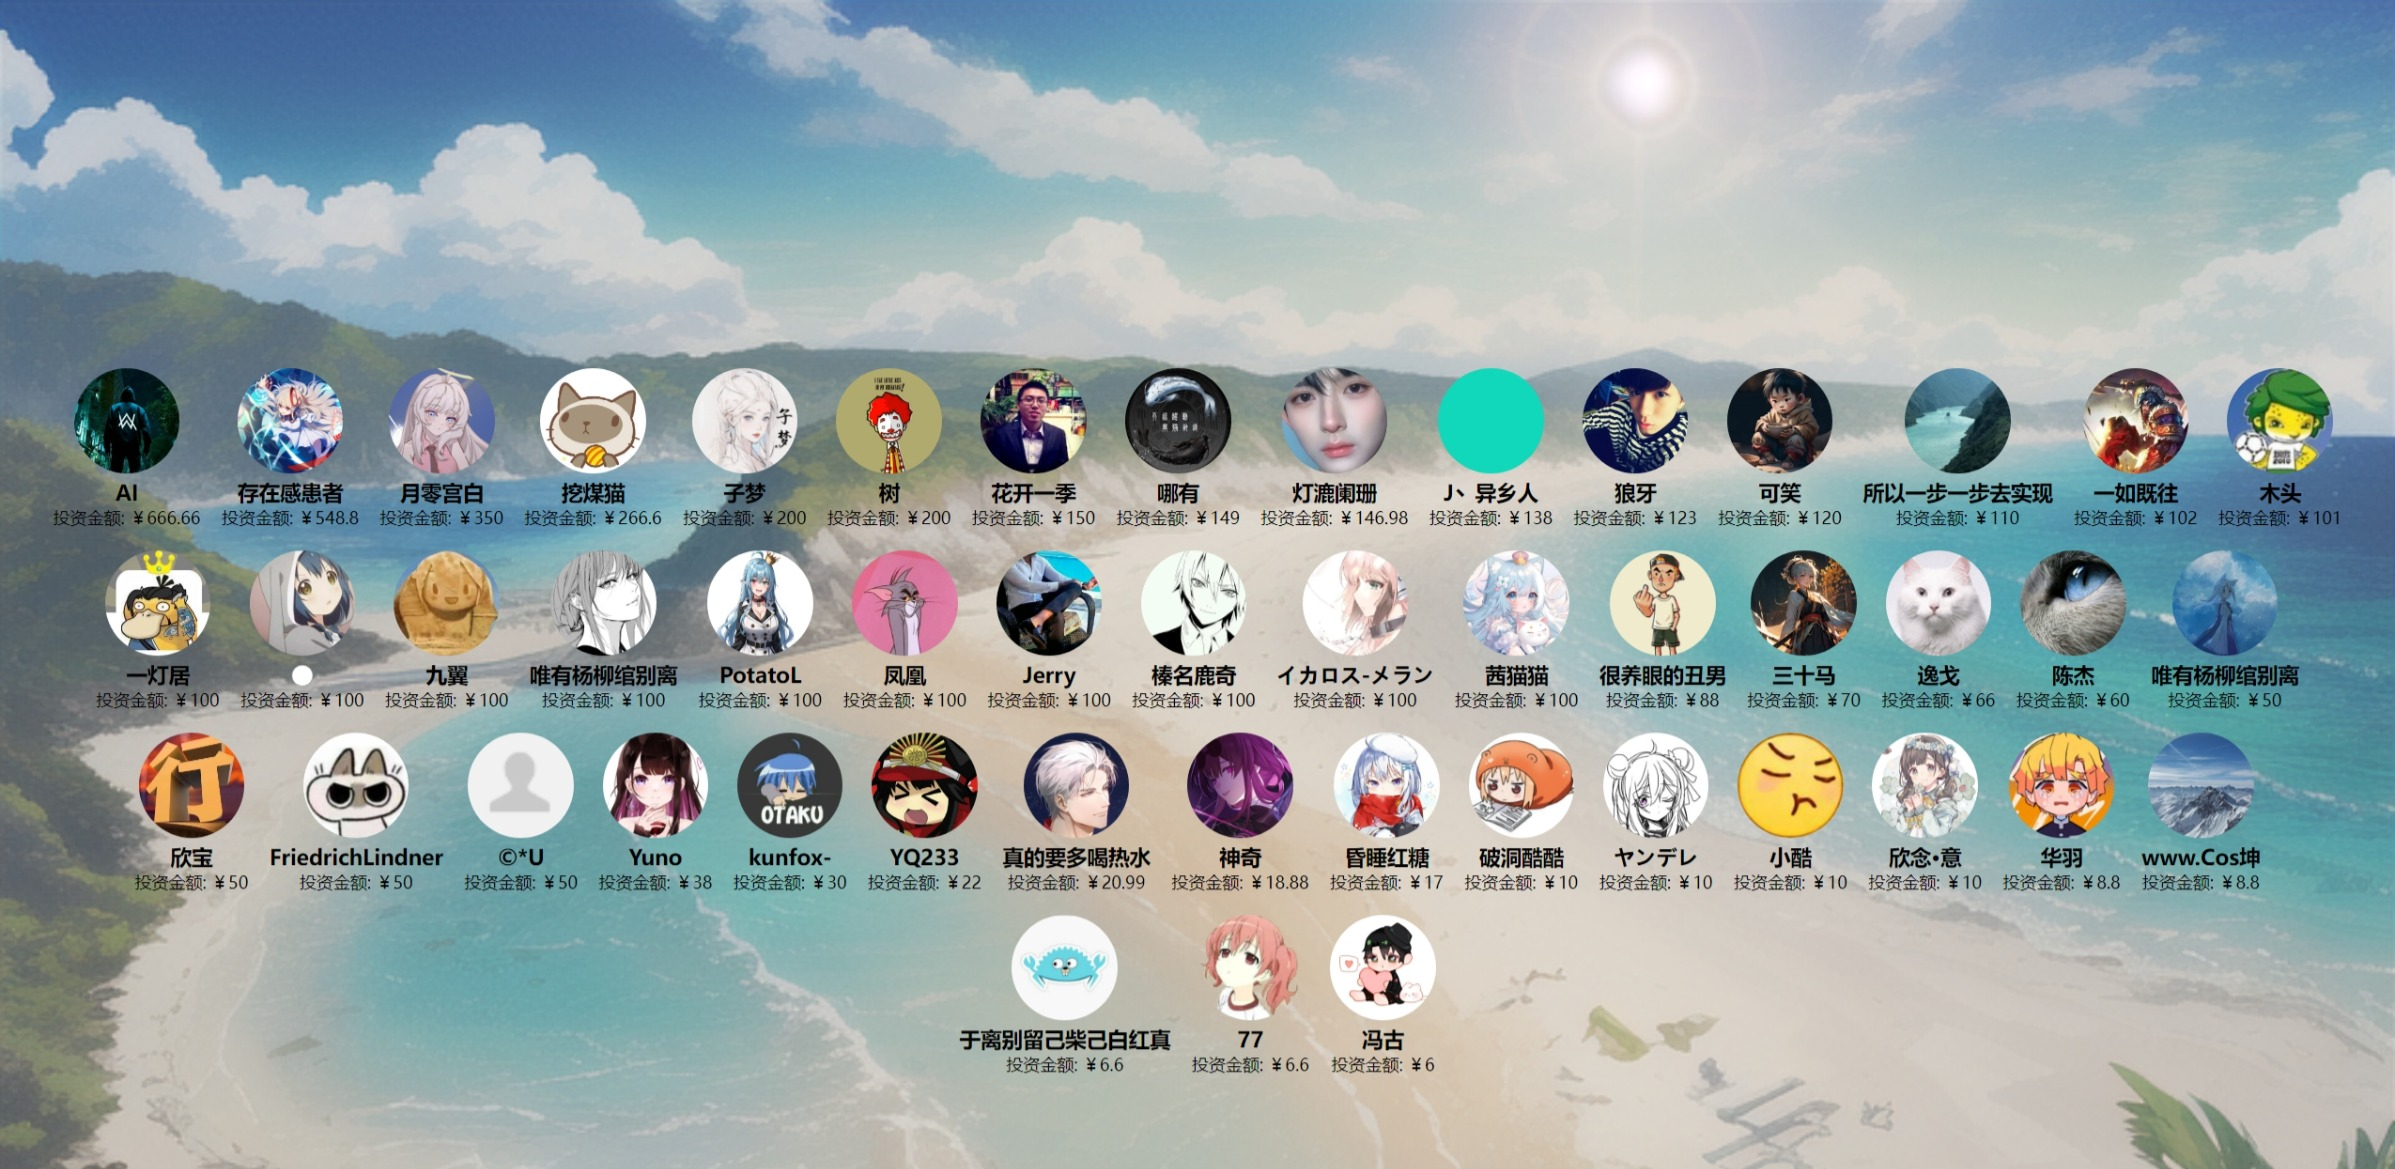
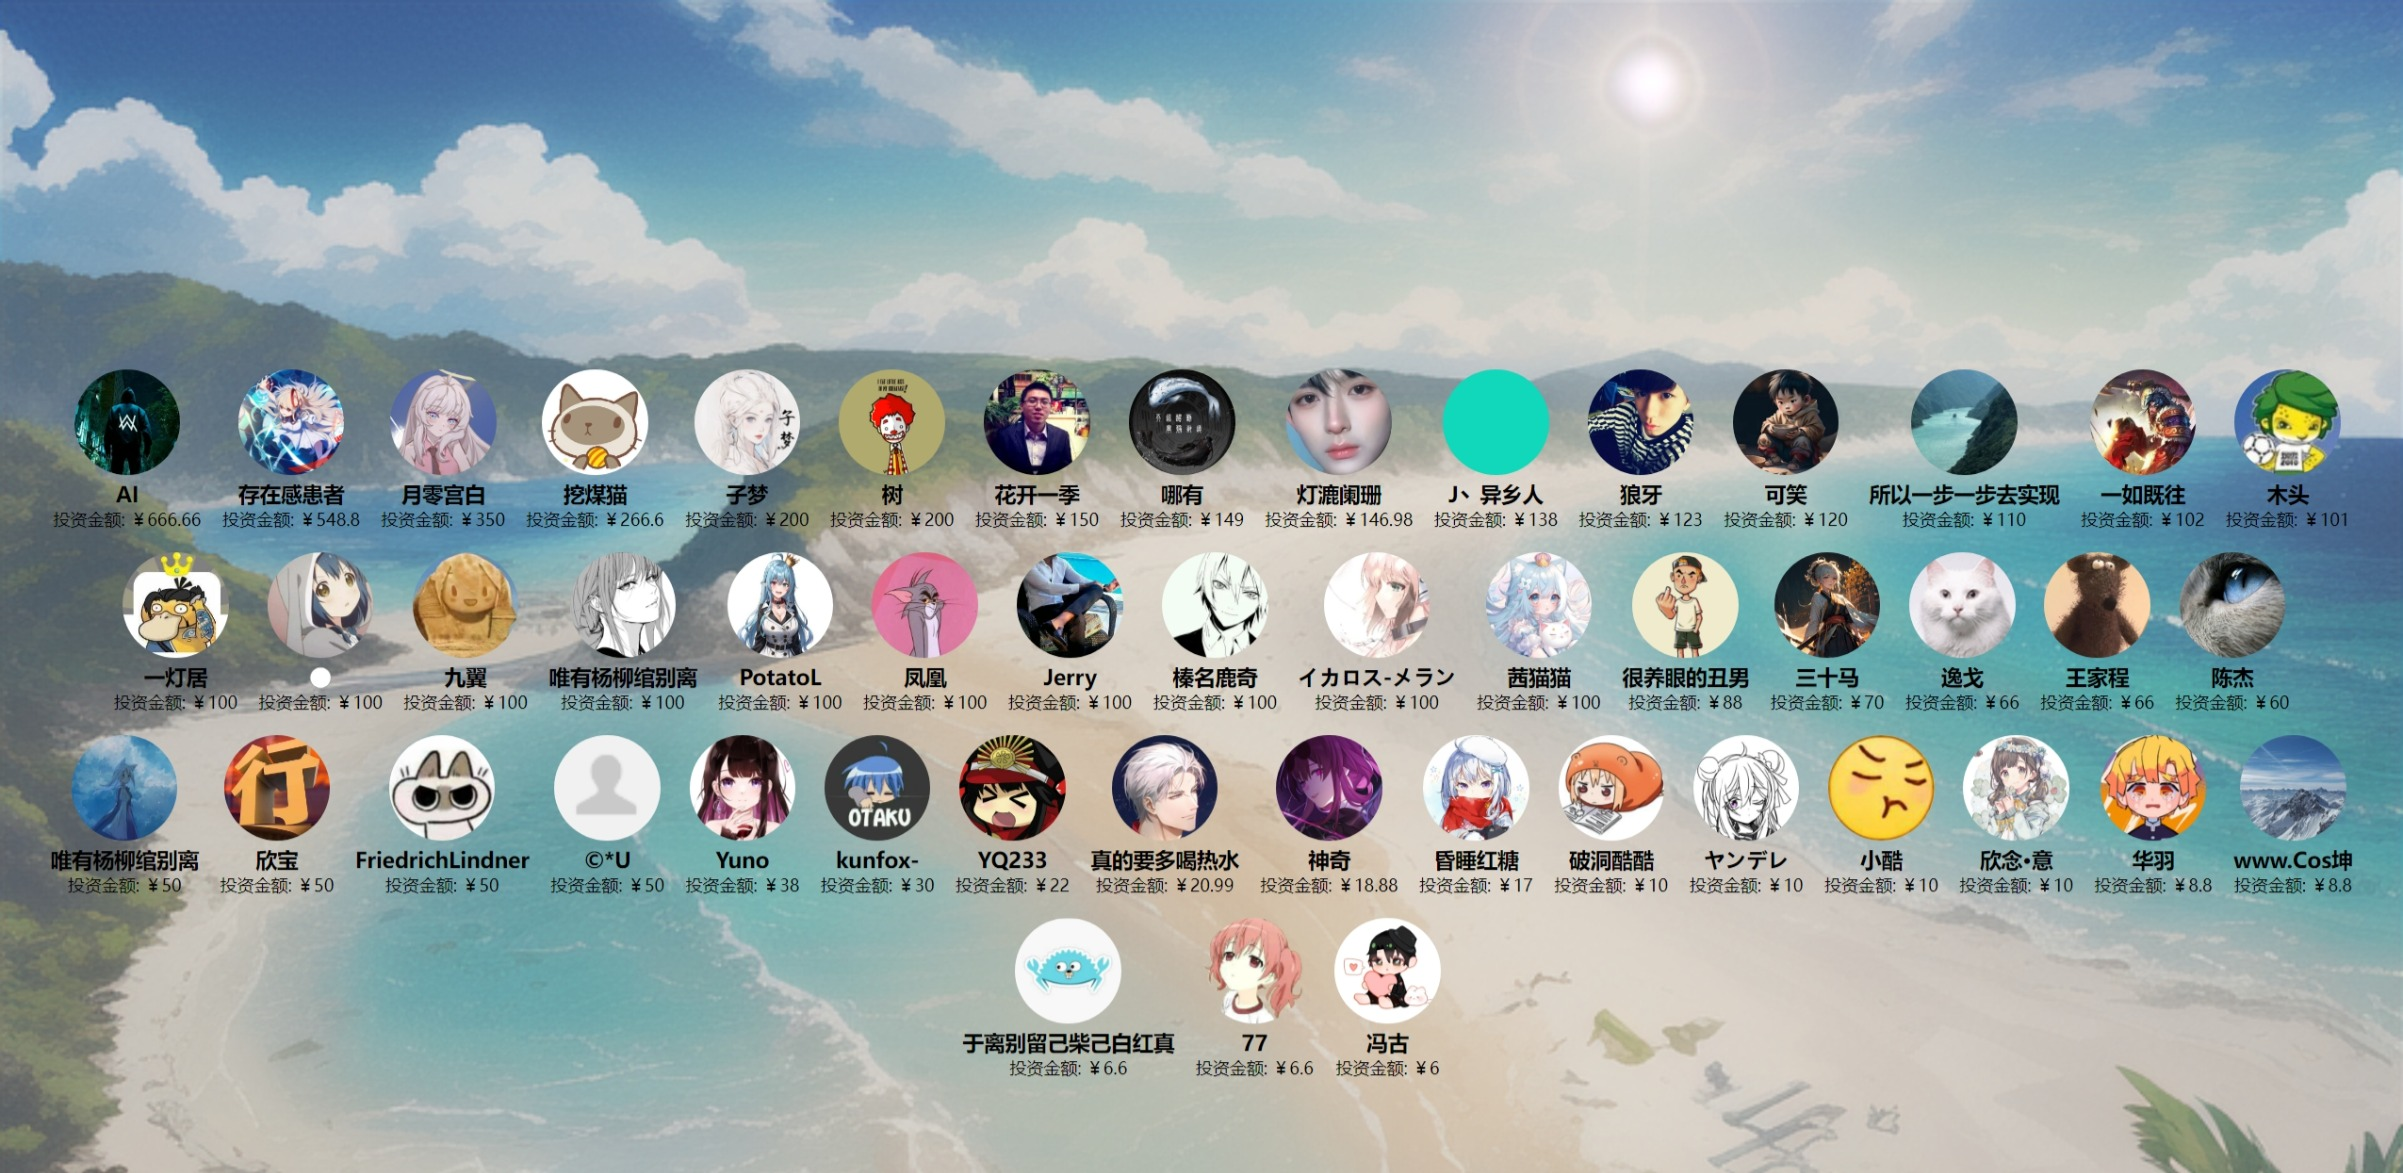
更新投资人

diff --git a/docs/投资人/index.html b/docs/投资人/index.html
@@ -192,6 +192,11 @@
             amount: "￥66"
         },
         {
+            name: "王家程",
+            avatar: "https://images.cnblogs.com/cnblogs_com/ikaros-521/2328032/o_231108082640_QQ%E5%9B%BE%E7%89%8720231108162541.jpg",
+            amount: "￥66"
+        },
+        {
             name: "陈杰",
             avatar: "https://images.cnblogs.com/cnblogs_com/ikaros-521/2328032/o_230719120711_QQ%E5%9B%BE%E7%89%8720230719200510.jpg",
             amount: "￥60"
